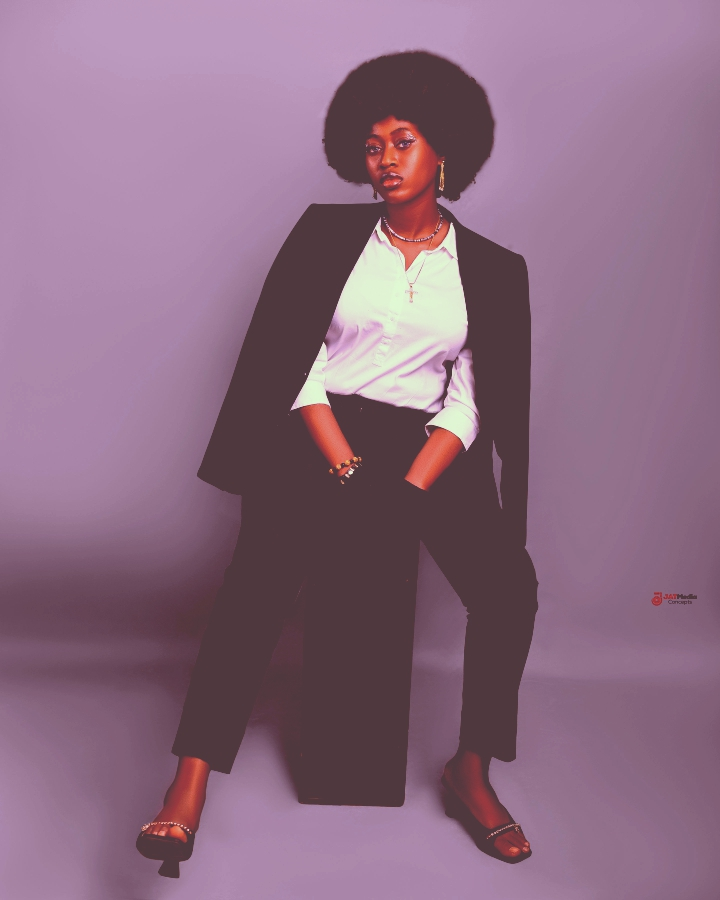
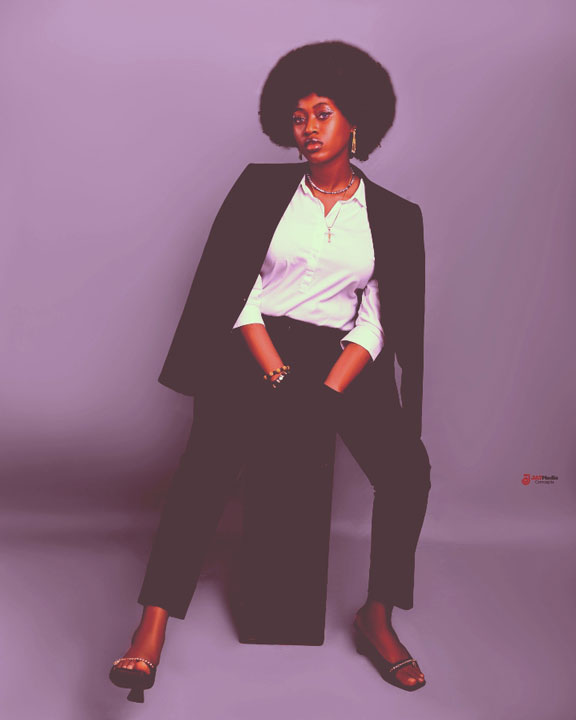
optimized images

diff --git a/src/assets/assests.ts b/src/assets/assests.ts
@@ -1,20 +1,20 @@
-import Carousel_1 from "./carousel3.png"
+import Carousel_1 from "./carousel3.jpg"
 import Carousel_2 from "./carousel1.jpg"
-import Carousel_3 from "./carousel3.png"
-import Partner1 from "./partner1.png"
+import Carousel_3 from "./carousel2.jpg"
+import Partner1 from "./partner1.jpg"
 import Partner2 from "./partner2.png"
 import Partner3 from "./partner3 .png"
-import Partner4 from "./partner4.png"
+import Partner4 from "./partner4.jpg"
 import Partner5 from "./partner5.png"
 import Partner6 from "./partner6.png"
-import Partner7 from "./partner7.png"
+import Partner7 from "./partner7.jpg"
 import Olamide from "./Ola-4.jpg"
 import Lady from "./Favour-2b.jpg"
 import JAT from "./Jat.jpg"
 import Shaft from "./JAT-113.jpg"
-import backgroundImg from "./marry .png"
+import backgroundImg from "./marry.jpg"
 import Team1 from "./Jat-2_1.jpg"
-import Team2 from "./Eyitayo (1)_1.jpg"
+import Team2 from "./Eyitayo-(1)_1.jpg"
 import Team3 from "./Stephen-2_1.jpg"
 import Team4 from "./Favour-4_1.jpg"
 import ContactUs_Img from "./Famassa-111_1.jpg"

diff --git a/src/App.tsx b/src/App.tsx
@@ -3,8 +3,6 @@ import Navbar from "./components/Navbar/Navbar";
 import { Routes, Route } from "react-router-dom";
 const Home = lazy(() => import("./Pages/Home"));
 const OurTeam = lazy(() => import("./Pages/Info"));
-
-
 import Contact from "./Pages/ContactUs";
 import Footer from "./components/Footer";
 import {ToastContainer} from "react-toastify"
